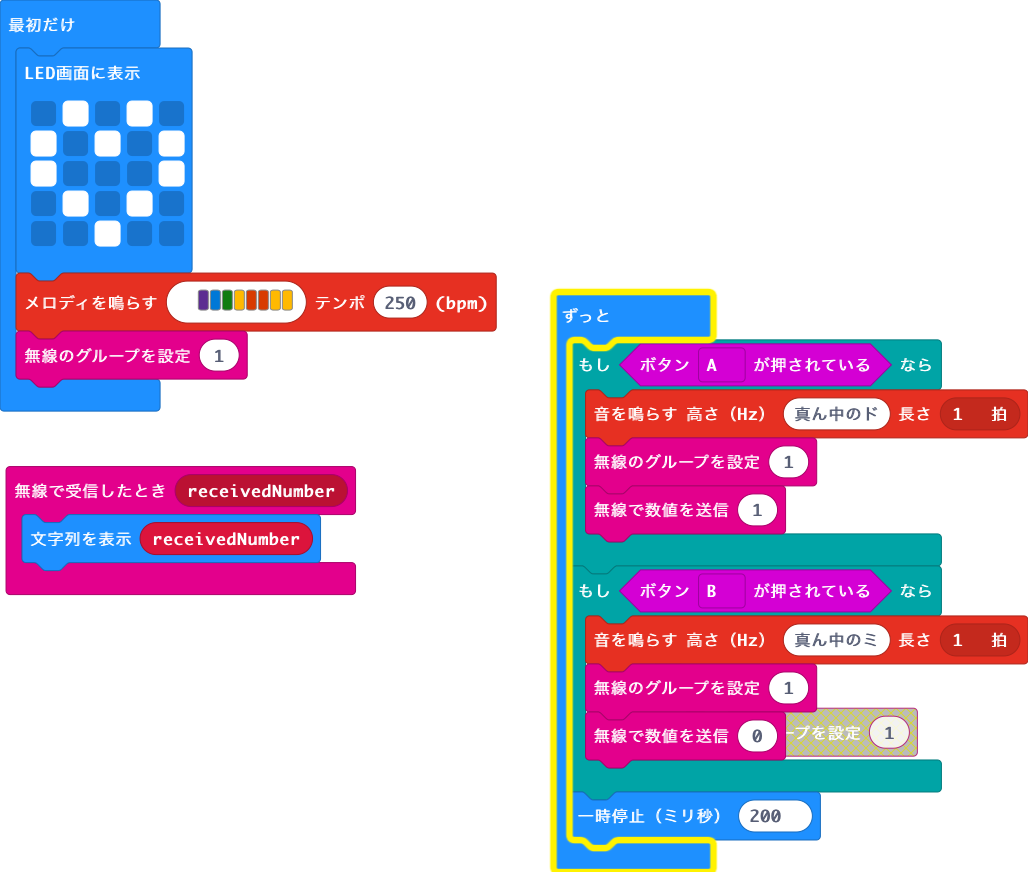
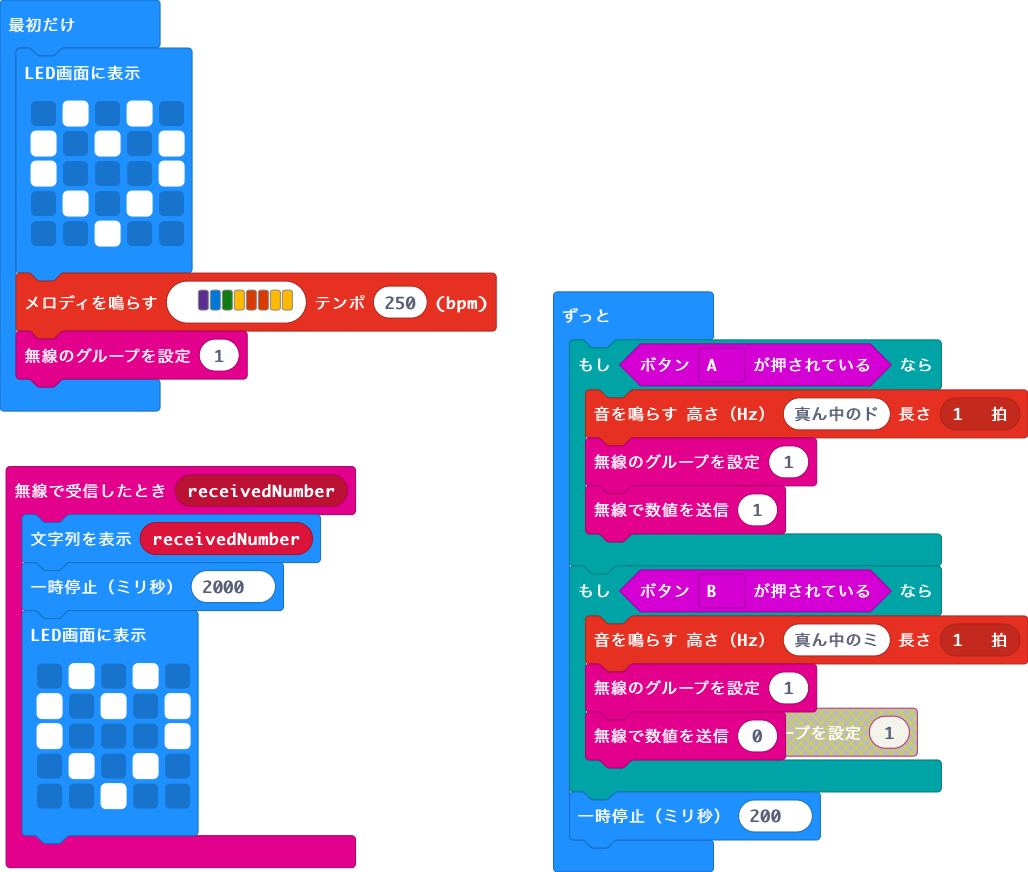
# display received number two seconds

Changed region(s): [[0.0, 0.6193, 0.3735, 1.0], [0.5292, 0.3096, 0.716, 1.0]]

diff --git a/main.ts b/main.ts
@@ -1,5 +1,13 @@
 radio.onReceivedNumber(function (receivedNumber) {
     basic.showString("" + (receivedNumber))
+    basic.pause(2000)
+    basic.showLeds(`
+        . # . # .
+        # . # . #
+        # . . . #
+        . # . # .
+        . . # . .
+        `)
 })
 basic.showLeds(`
     . # . # .
